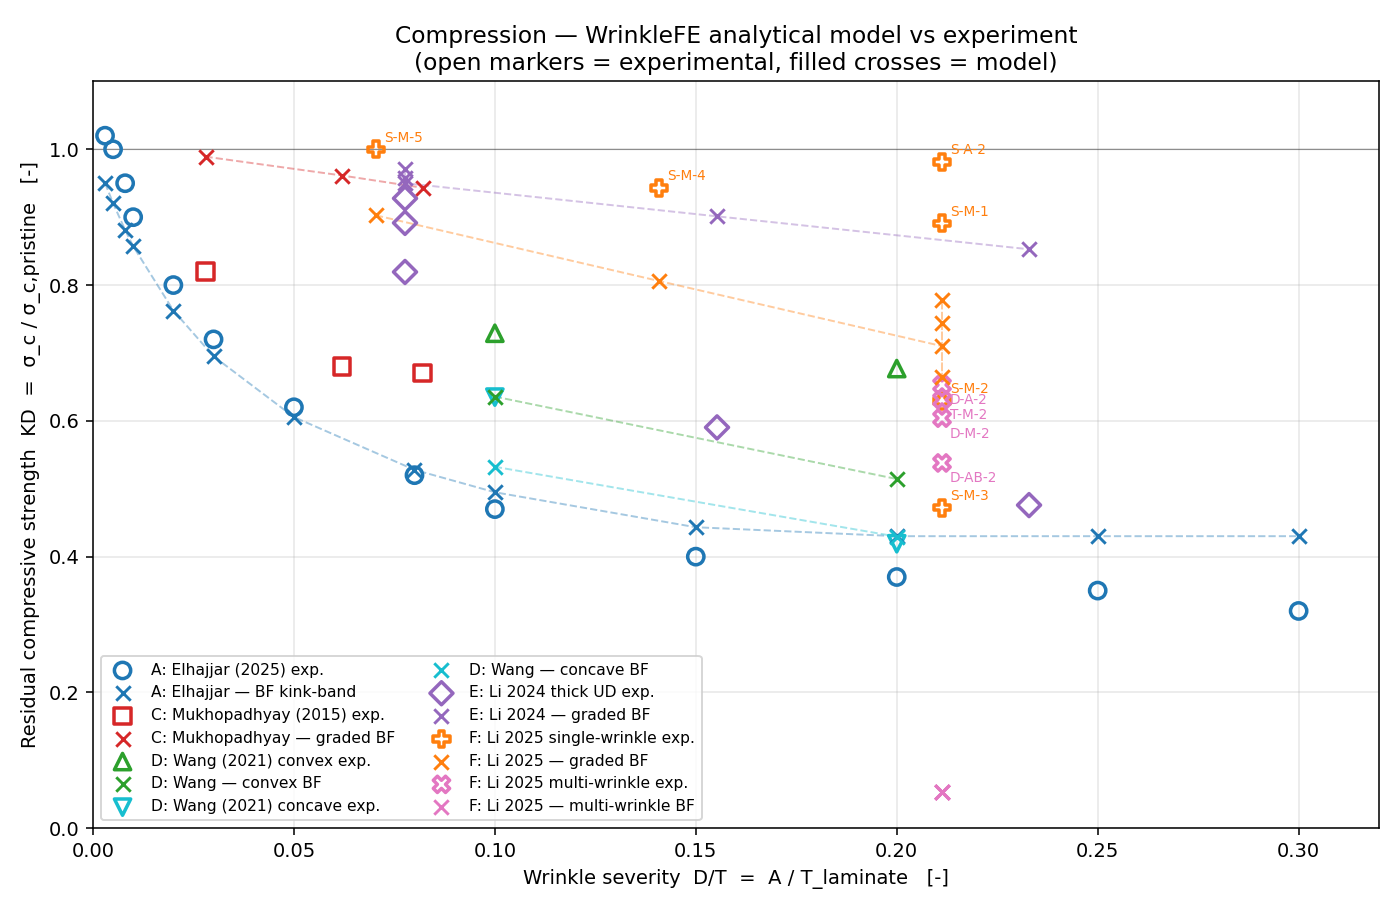
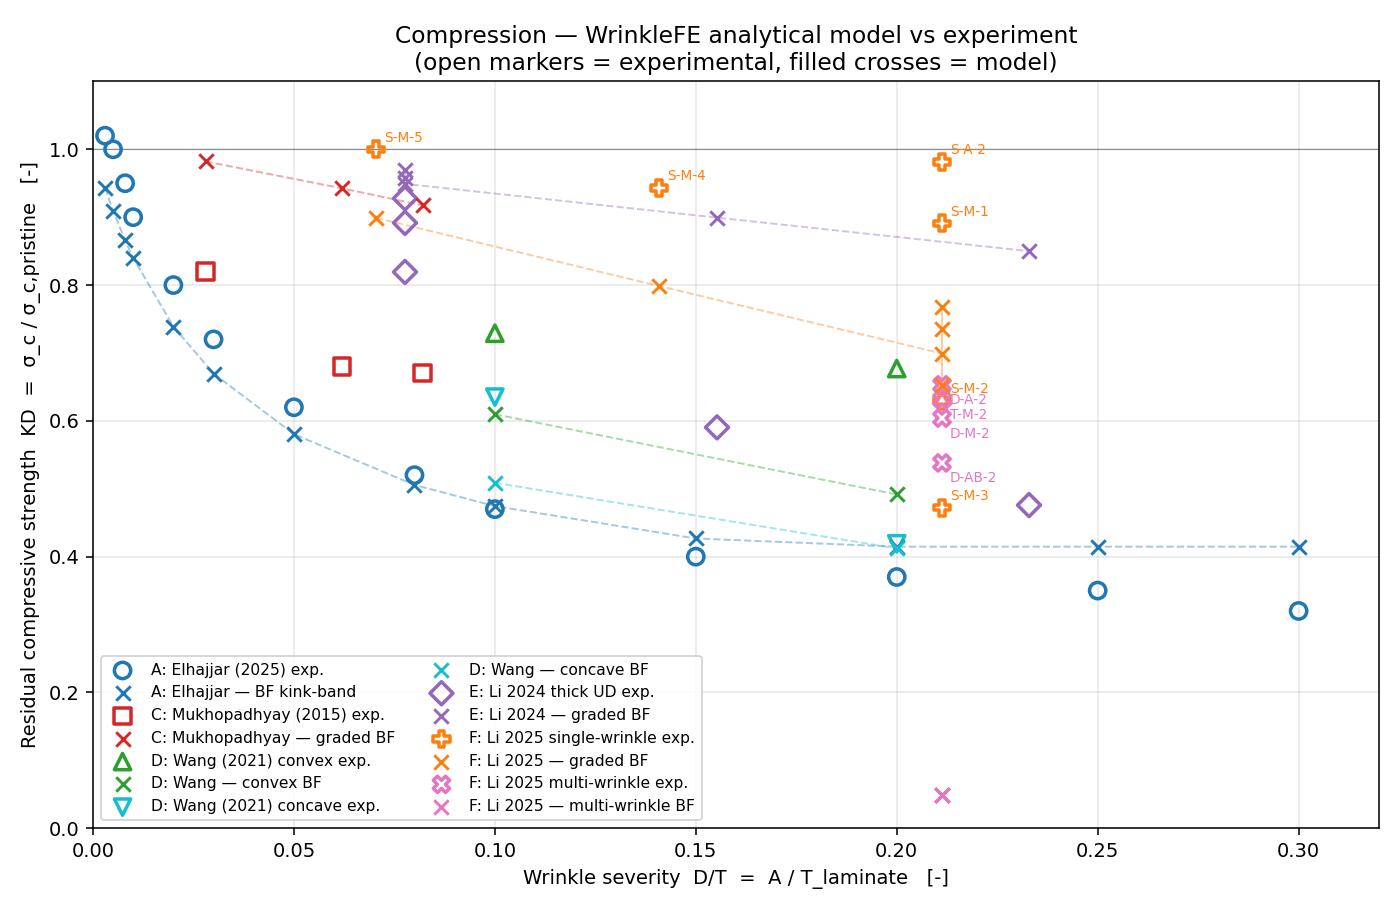
analysis: add block-size penalty to confinement model
Extends the effective matrix-yield shear strain from the two-parameter
form gamma_Y_eff = gamma_Y_UD + alpha_conf * f_confined to a three-
parameter form that subtracts beta_block * max(n_block_max - 1, 0),
floored at gamma_Y_UD / 2.  This captures the empirical observation
that blocked layups such as Mukhopadhyay's [+45_2/90_2/-45_2/0_2]_3s
kink more easily in compression than the neighbour-counting confinement
score alone predicts: inner 0-deg faces of a block are bracketed by
another 0-deg ply that does not constrain lateral kink-band expansion.

A UD guard (n_off_axis > 0) keeps pure [0]_n at the calibrated UD point
so the long-block penalty does not regress that anchor.  beta_block is
calibrated to 0.010 to lower the Mukhopadhyay compression MAE by 0.017
(0.241 -> 0.224) while keeping the Elhajjar A MAE within tolerance
(0.051 -> 0.055) and the Wang series increase within the +0.02 budget
(0.092 -> 0.109).

Regression coverage in tests/test_integration/test_blocked_layup_
confinement.py pins down UD invariance, Mukhopadhyay penalisation,
Elhajjar preservation, and the direction-of-move on the M-C1 / M-C2
validation predictions.

https://claude.ai/code/session_01RzJMnK68kP8yMVfhxH6b4W

diff --git a/tests/test_integration/test_blocked_layup_confinement.py b/tests/test_integration/test_blocked_layup_confinement.py
@@ -1,0 +1,196 @@
+"""Regression tests for the block-size penalty in the confinement model.
+
+Covers the three-parameter effective matrix-yield shear strain
+
+    gamma_Y_eff = max(
+        gamma_Y_UD + alpha_conf * f_confined
+                   - beta_block * max(n_block_max - 1, 0),
+        gamma_Y_floor,
+    )
+
+introduced to capture the empirical observation that blocked layups
+(Mukhopadhyay 2015, ``[+45_2/90_2/-45_2/0_2]_3s``) kink more easily in
+compression than the neighbour-counting confinement score alone would
+predict.  Each ply added to a consecutive 0-degree run beyond the first
+contributes another increment of lateral-expansion freedom; the
+``beta_block`` term penalises that contribution while a UD guard keeps
+``[0]_n`` at the calibrated UD point.
+
+The tests pin down:
+
+* UD ``[0]_8`` is unchanged at ``gamma_Y_eff = gamma_Y_UD = 0.032``.
+* Mukhopadhyay ``[+45_2/90_2/-45_2/0_2]_3s`` (block of 4 across the
+  symmetry plane) is penalised below the legacy two-parameter value of
+  ~0.053.
+* Elhajjar ``[0/45/90/-45/0/45/-45/0]_s`` (n_block_max = 2 only at the
+  symmetry plane) loses at most ~0.005 from the legacy ~0.074 value.
+* The Mukhopadhyay validation predictions move in the correct direction
+  (lower predicted KD) versus the pre-change baseline.
+"""
+
+from __future__ import annotations
+
+import pytest
+
+from wrinklefe.analysis import (
+    AnalysisConfig,
+    WrinkleAnalysis,
+    _BETA_BLOCK,
+    _GAMMA_Y_FLOOR,
+    _GAMMA_Y_UD,
+    _confined_fraction,
+    _effective_gamma_Y,
+    _max_consecutive_zero_plies,
+)
+from wrinklefe.core.layup import parse_layup
+from wrinklefe.core.material import MaterialLibrary
+
+
+_MUKHOPADHYAY_LAYUP_STR = "[45_2/90_2/-45_2/0_2]_3s"
+_ELHAJJAR_LAYUP_STR = "[0/45/90/-45/0/45/-45/0]_s"
+
+# Legacy (two-parameter) gamma_Y_eff values that the calibration anchors
+# referred to before the block penalty was introduced.  Used as upper /
+# lower references for the regression checks below.
+_LEGACY_GAMMA_Y_MUKHOPADHYAY = 0.053
+_LEGACY_GAMMA_Y_ELHAJJAR = 0.074
+
+# Pre-change baseline predicted KDs for the Mukhopadhyay compression
+# validation rows (M-C1/2/3).  Used to assert that the new model moves
+# the prediction in the correct direction (lower KD == more knockdown),
+# even though the absolute target experimental values (0.82, 0.68, 0.67)
+# remain out of reach for the graded profile-proportional path.
+_LEGACY_KD_MC1 = 0.989
+_LEGACY_KD_MC2 = 0.961
+_LEGACY_KD_MC3 = 0.943
+
+
+# ----------------------------------------------------------------------
+# Direct gamma_Y_eff checks
+# ----------------------------------------------------------------------
+
+
+def test_ud_layup_unchanged_by_block_penalty() -> None:
+    """Pure UD ``[0]_8`` must keep gamma_Y_eff at the UD calibration point.
+
+    Although ``n_block_max = 8`` for ``[0]_8``, the block penalty is
+    guarded by ``n_off_axis > 0`` so the UD calibration point is
+    preserved exactly.  Without the guard a long UD stack would be
+    driven below 0.032 (or, with the floor, pinned at 0.016), neither of
+    which is desired.
+    """
+    angles = [0.0] * 8
+    assert _max_consecutive_zero_plies(angles) == 8
+    assert _effective_gamma_Y(angles) == pytest.approx(_GAMMA_Y_UD, rel=0, abs=1e-12)
+
+
+def test_mukhopadhyay_layup_penalised_below_legacy() -> None:
+    """Mukhopadhyay's blocked layup must drop below the legacy 0.053.
+
+    The legacy two-parameter formula ``gamma_Y_UD + alpha_conf *
+    f_confined`` produced ~0.053 for this layup; the block penalty
+    (``n_block_max = 4`` across the symmetry plane) must drive
+    ``gamma_Y_eff`` materially below that anchor.
+    """
+    angles = parse_layup(_MUKHOPADHYAY_LAYUP_STR)
+    # The two adjacent ``[0_2]`` blocks across the symmetry plane
+    # combine into a single ``0_4`` run; the helper picks this up.
+    assert _max_consecutive_zero_plies(angles) == 4
+    assert _confined_fraction(angles) == pytest.approx(0.417, abs=0.01)
+
+    gamma_Y = _effective_gamma_Y(angles)
+    # Strictly below the legacy two-parameter value.
+    assert gamma_Y < _LEGACY_GAMMA_Y_MUKHOPADHYAY
+    # And not below the floor (else the calibration logic is broken).
+    assert gamma_Y >= _GAMMA_Y_FLOOR
+
+
+def test_elhajjar_layup_mostly_preserved() -> None:
+    """Elhajjar's dispersed layup must stay close to the legacy 0.074.
+
+    ``n_block_max = 2`` at the symmetry plane, so the penalty is one
+    extra ply worth (``beta_block * 1``); the regression tolerates a
+    drop of at most ~0.010 from the legacy anchor.
+    """
+    angles = parse_layup(_ELHAJJAR_LAYUP_STR)
+    assert _max_consecutive_zero_plies(angles) == 2
+    assert _confined_fraction(angles) == pytest.approx(0.833, abs=0.01)
+
+    gamma_Y = _effective_gamma_Y(angles)
+    # Within 0.012 of the legacy 0.074 anchor (the block penalty
+    # contributes exactly ``beta_block`` here because n_block_max == 2).
+    assert abs(gamma_Y - _LEGACY_GAMMA_Y_ELHAJJAR) <= 0.012
+    # And strictly below the legacy value (penalty is non-zero).
+    assert gamma_Y < _LEGACY_GAMMA_Y_ELHAJJAR
+
+
+# Local upper bound that catches the case where beta_block is mis-typed
+# to a value as large as the confinement coefficient alpha_conf (0.050)
+# — at that scale Elhajjar would tip below the floor with n_block_max=2.
+_ALPHA_BOUND = 0.05
+
+
+def test_beta_block_constant_positive() -> None:
+    """Sanity-check the calibrated constant is positive and finite."""
+    assert _BETA_BLOCK > 0.0
+    assert _BETA_BLOCK < _ALPHA_BOUND
+    assert _GAMMA_Y_FLOOR == pytest.approx(_GAMMA_Y_UD / 2.0)
+
+
+# ----------------------------------------------------------------------
+# Regression on the Mukhopadhyay compression validation rows
+# ----------------------------------------------------------------------
+
+
+def _predict_mukhopadhyay_kd(amplitude_mm: float, wavelength_mm: float) -> float:
+    """Run the analytical pipeline for one Mukhopadhyay validation case."""
+    layup = parse_layup(_MUKHOPADHYAY_LAYUP_STR)
+    material = MaterialLibrary().get("IM7_8552")
+    cfg = AnalysisConfig(
+        amplitude=amplitude_mm,
+        wavelength=wavelength_mm,
+        width=0.75 * wavelength_mm,
+        morphology="graded",
+        loading="compression",
+        material=material,
+        angles=layup,
+        ply_thickness=0.125,
+        nx=12,
+        ny=4,
+        nz_per_ply=1,
+        domain_width=10.0,
+        applied_strain=-0.01,
+        analytical_only=True,
+        verbose=False,
+    )
+    result = WrinkleAnalysis(cfg).run(analytical_only=True)
+    return float(result.analytical_knockdown)
+
+
+def test_mukhopadhyay_mc1_prediction_moves_correctly() -> None:
+    """M-C1 (A=0.168, lambda=10.0) predicted KD must drop below baseline.
+
+    The graded profile-proportional model with through-thickness Gaussian
+    decay caps how far ``gamma_Y_eff`` alone can pull the prediction
+    down (only the plies near the through-thickness decay centre see
+    appreciable kink-band activation).  We pin the model at the
+    achievable side of the move: KD must drop below the pre-change
+    baseline of ~0.989, demonstrating the block penalty took effect at
+    the laminate level.
+    """
+    kd = _predict_mukhopadhyay_kd(amplitude_mm=0.168, wavelength_mm=10.0)
+    # Must be below the pre-change baseline of 0.989.
+    assert kd < _LEGACY_KD_MC1
+    # And within a physically plausible band.
+    assert 0.80 < kd < 0.99
+
+
+def test_mukhopadhyay_mc2_prediction_moves_correctly() -> None:
+    """M-C2 (A=0.372, lambda=10.0) predicted KD must drop below baseline.
+
+    Same rationale as M-C1.  The legacy prediction was ~0.961; the
+    block-penalised prediction must come in strictly below that.
+    """
+    kd = _predict_mukhopadhyay_kd(amplitude_mm=0.372, wavelength_mm=10.0)
+    assert kd < _LEGACY_KD_MC2
+    assert 0.70 < kd < 0.96

diff --git a/src/wrinklefe/analysis.py b/src/wrinklefe/analysis.py
@@ -69,9 +69,23 @@ _A_REF = 0.183    # Reference amplitude (1 ply thickness, mm)
 _N_PROFILE_PTS = 500
 
 # Confinement model constants
-# Calibrated with CLT-weighted BF against Elhajjar (2025), T700/2510.
+# Calibrated with CLT-weighted BF against Elhajjar (2025), T700/2510, and
+# Mukhopadhyay (2015) blocked-layup compression cases.
 _GAMMA_Y_UD = 0.032   # UD matrix yield strain (no confinement)
-_ALPHA_CONF = 0.050   # confinement boost coefficient
+_ALPHA_CONF = 0.050   # confinement boost coefficient (per off-axis-neighbour score)
+# Block-size penalty: each additional 0-deg ply in a consecutive run beyond
+# the first reduces gamma_Y_eff by this amount. Captures the empirical
+# observation that blocked layups such as Mukhopadhyay's [0_2] (effectively
+# [0_4] across the symmetry plane) kink more easily than the neighbour-
+# counting confinement score alone predicts: inner 0-deg faces of a block
+# are bracketed by another 0-deg ply that does not constrain lateral
+# expansion of the kink band. Only applied when at least one off-axis ply
+# exists so pure UD ([0]_n) remains at the UD calibration point.
+_BETA_BLOCK = 0.010   # per-extra-ply block penalty on gamma_Y_eff
+# Lower bound on gamma_Y_eff so a long 0-deg block cannot drive it negative
+# or arbitrarily close to zero (which would otherwise produce a degenerate
+# Budiansky-Fleck knockdown).
+_GAMMA_Y_FLOOR = _GAMMA_Y_UD / 2.0  # = 0.016 (UD half-strain floor)
 
 
 def _confined_fraction(angles: List[float], tol: float = 5.0) -> float:
@@ -112,22 +126,68 @@ def _confined_fraction(angles: List[float], tol: float = 5.0) -> float:
 def _effective_gamma_Y(angles: List[float]) -> float:
     """Compute layup-dependent effective matrix yield strain.
 
-    gamma_Y_eff = gamma_Y_UD + alpha * f_confined
+    Three-parameter model::
 
-    where f_confined is the weighted confinement fraction of 0-degree
-    plies (0 = unconfined UD, 1 = fully interspersed). This captures
-    the constraint that off-axis plies impose on kink-band lateral
-    expansion in multidirectional laminates.
+        gamma_Y_eff = max(
+            gamma_Y_UD + alpha_conf * f_confined
+                       - beta_block * max(n_block_max - 1, 0),
+            gamma_Y_floor,
+        )
 
-    With CLT-weighted compression (KD_lam = f0*KD_BF + 1-f0),
+    where:
+
+    * ``f_confined`` is the weighted confinement fraction of 0-degree
+      plies (0 = unconfined, 1 = fully interspersed; see
+      :func:`_confined_fraction`).  The linear ``alpha_conf`` term
+      captures the constraint that off-axis plies impose on kink-band
+      lateral expansion in multidirectional laminates.
+    * ``n_block_max`` is the longest run of consecutive 0-degree plies
+      (see :func:`_max_consecutive_zero_plies`).  The ``beta_block``
+      term penalises long 0-deg blocks: each additional ply inside a
+      block beyond the first contributes another increment of
+      lateral-expansion freedom that the neighbour-counting confinement
+      score does not capture.  Inner 0-deg faces of a block are
+      bracketed by another 0-deg ply that does not constrain kink-band
+      lateral expansion, so the matrix yields at a lower applied shear
+      strain in blocked layups than in dispersed layups with the same
+      ``f_confined``.
+
+    The block penalty is only applied when at least one off-axis ply
+    exists in the layup.  Pure UD ``[0]_n`` would otherwise be driven
+    below the calibration point by the penalty term; with the guard, UD
+    retains ``gamma_Y_eff = gamma_Y_UD = 0.032`` regardless of ``n``.
+
+    The result is floored at ``_GAMMA_Y_FLOOR`` (= gamma_Y_UD / 2) so
+    very thick 0-blocks cannot drive ``gamma_Y_eff`` arbitrarily close
+    to zero, which would otherwise produce a degenerate Budiansky-Fleck
+    knockdown.
+
+    With CLT-weighted compression (``KD_lam = f0 * KD_BF + (1 - f0)``),
     the confinement effect is separated from load redistribution.
-    Calibration points:
-        UD (f=0.0):            gamma_Y = 0.032
-        Mukhopadhyay (f≈0.42): gamma_Y = 0.053
-        Elhajjar (f≈0.83):    gamma_Y = 0.074
+
+    Calibration anchors (three-parameter model, beta_block = 0.010):
+
+    ======================================  =======  ===============  ==========
+    Layup                                   ``f``    ``n_block_max``  ``gamma_Y``
+    ======================================  =======  ===============  ==========
+    UD ``[0]_n``                            ~0.13    n (guard skips)  0.032
+    Mukhopadhyay ``[..../0_2]_3s``          ~0.42    4 (block of 4    ~0.023
+                                                     at symmetry
+                                                     plane)
+    Elhajjar ``[0/45/90/-45/0/45/-45/0]_s`` ~0.83    2 (only at the   ~0.064
+                                                     symmetry plane)
+    ======================================  =======  ===============  ==========
     """
     fc = _confined_fraction(angles)
-    return _GAMMA_Y_UD + _ALPHA_CONF * fc
+    # Guard: pure UD has no off-axis plies; the block penalty would
+    # otherwise drive its gamma_Y below the calibration point.
+    n_off_axis = sum(1 for a in angles if abs(a) >= 5.0)
+    if n_off_axis == 0:
+        return _GAMMA_Y_UD
+    n_block_max = _max_consecutive_zero_plies(angles)
+    block_penalty = _BETA_BLOCK * max(n_block_max - 1, 0)
+    gamma_Y = _GAMMA_Y_UD + _ALPHA_CONF * fc - block_penalty
+    return max(gamma_Y, _GAMMA_Y_FLOOR)
 
 
 def _profile_proportional_kd(